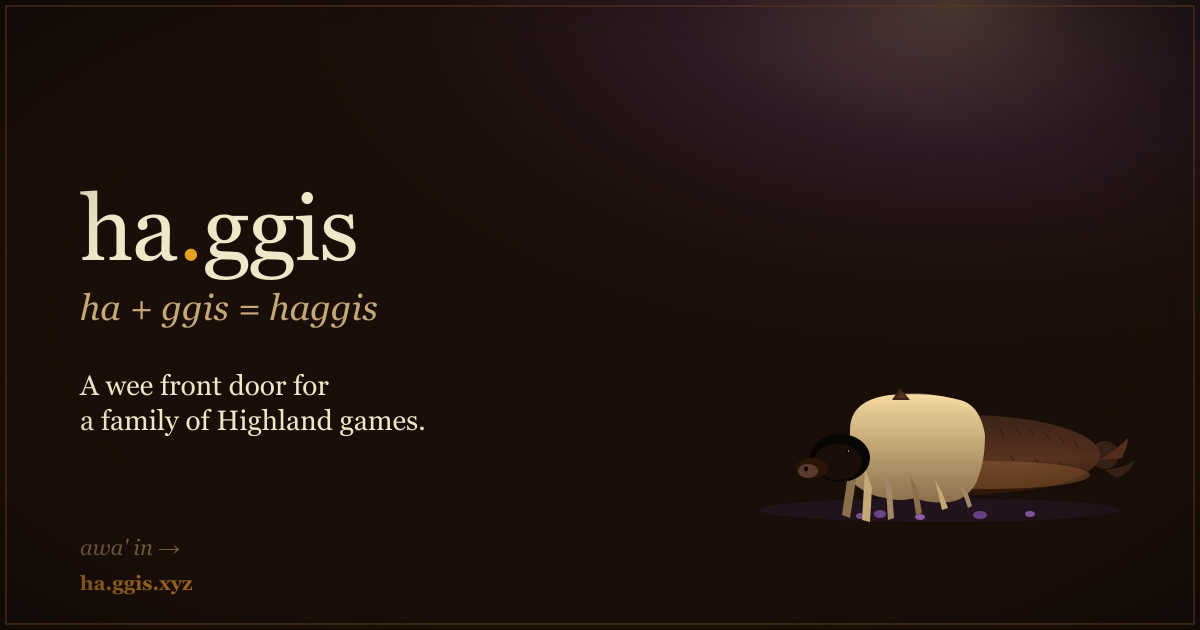
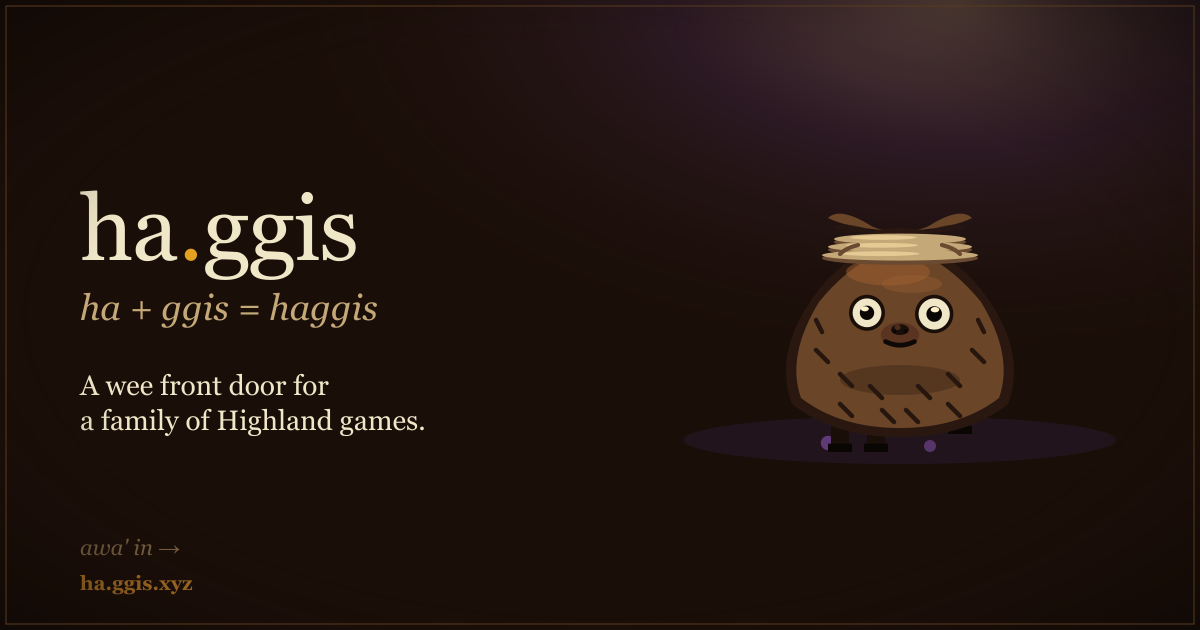
Redesign OG social card with the tied-pudding haggis.
public/og.svg previously shipped the old canonical mane-and-strands haggis silhouette that the owner called "ugly as sin". Replaced with a hand-port of the new bothy-haggis.ts shape language — tied sack body, three cream-oat twine wraps, outward-flopping fabric ears, asymmetric drift legs, knobbly stitch strokes, heather-purple ground patch — at the OG card's 1200x630 scale (haggis rendered at translate(900 320) scale(6)). The social card now showcases the canon protagonist instead of misrepresenting it.

Typography block + dawn radial gradient + vignette + frame are unchanged. Removed the unused #haggisBody / #mane / #rim gradient defs that were only referenced by the retired haggis paths. og.png regenerated via pnpm rasterize:og.

Changed region(s): [[0.6475, 0.3317, 0.9558, 0.8444], [0.6475, 0.7238, 0.6783, 0.754]]

diff --git a/CHANGELOG.md b/CHANGELOG.md
@@ -2,6 +2,19 @@
 
 All notable changes to ha.ggis Hub. Date-ordered, newest first. Format inspired by [Keep a Changelog](https://keepachangelog.com/en/1.1.0/).
 
+## [Unreleased] — 2026-05-25 feat: redesign OG social card with the tied-pudding haggis
+
+`public/og.svg` previously shipped with the old canonical mane-and-strands haggis silhouette (the one the owner called "ugly as sin"). Replaced with a hand-port of the new `bothy-haggis.ts` shape language — tied-pudding sack, twine wraps, fabric ears, asymmetric drift legs, heather patch — at the OG card's 1200×630 scale (haggis rendered at ×6 native, ~270 wide). Now the social card actually showcases the canon protagonist instead of misrepresenting it.
+
+Typography block + dawn radial + vignette + frame are unchanged. Removed the unused `#haggisBody` / `#mane` / `#rim` gradient defs (they were only referenced by the retired haggis paths).
+
+### Changed
+
+- **`public/og.svg`** — new tied-pudding haggis group at `translate(900 320) scale(6)`; removed unused gradient defs; updated comment to point at `bothy-haggis.ts` as the canon source.
+- **`public/og.png`** — regenerated via `pnpm rasterize:og`.
+
+---
+
 ## [Unreleased] — 2026-05-25 feat: bothy haggis as tied-pudding-with-eyes (`bothy-haggis.ts`)
 
 Six earlier haggis attempts in the same working tree failed the bar — procedural drawer keyed to `public/og.svg` ("lumpy / icicle-maned"), hand-painted pixel sprite at scale 3 ("brown loaf"), port of the WHS in-game drawer (rejected as a cross-game copy), 3/4-russet "Highland mammal" ("corn dog with a bib"), radial fur spikes ("sea urchin"), and scalloped fluff ("Furby in cosplay"). All six designed AROUND the haggis. The breakthrough: the wild haggis is a folk gag about the FOOD coming alive — so the creature's shape language has to *be* the dish (a stuffed sack tied with twine at the top), with eyes, legs, and the canonical asymmetric-leg drift.